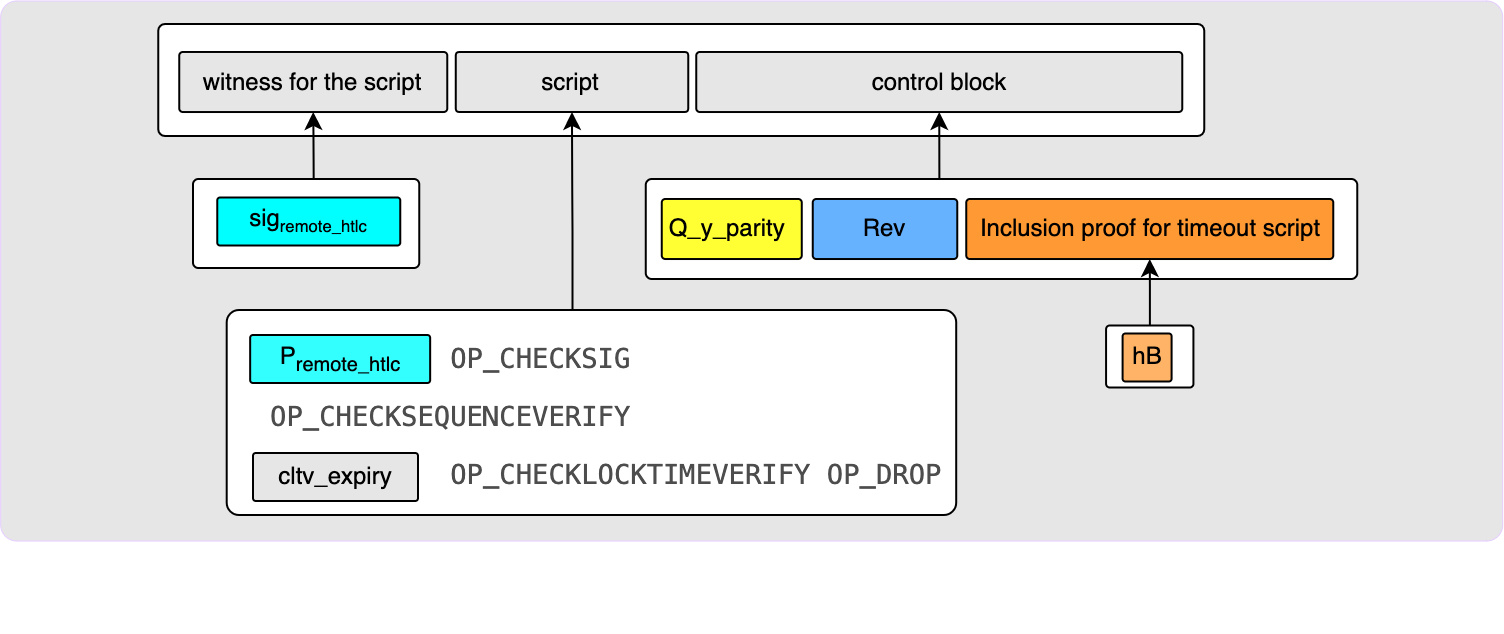
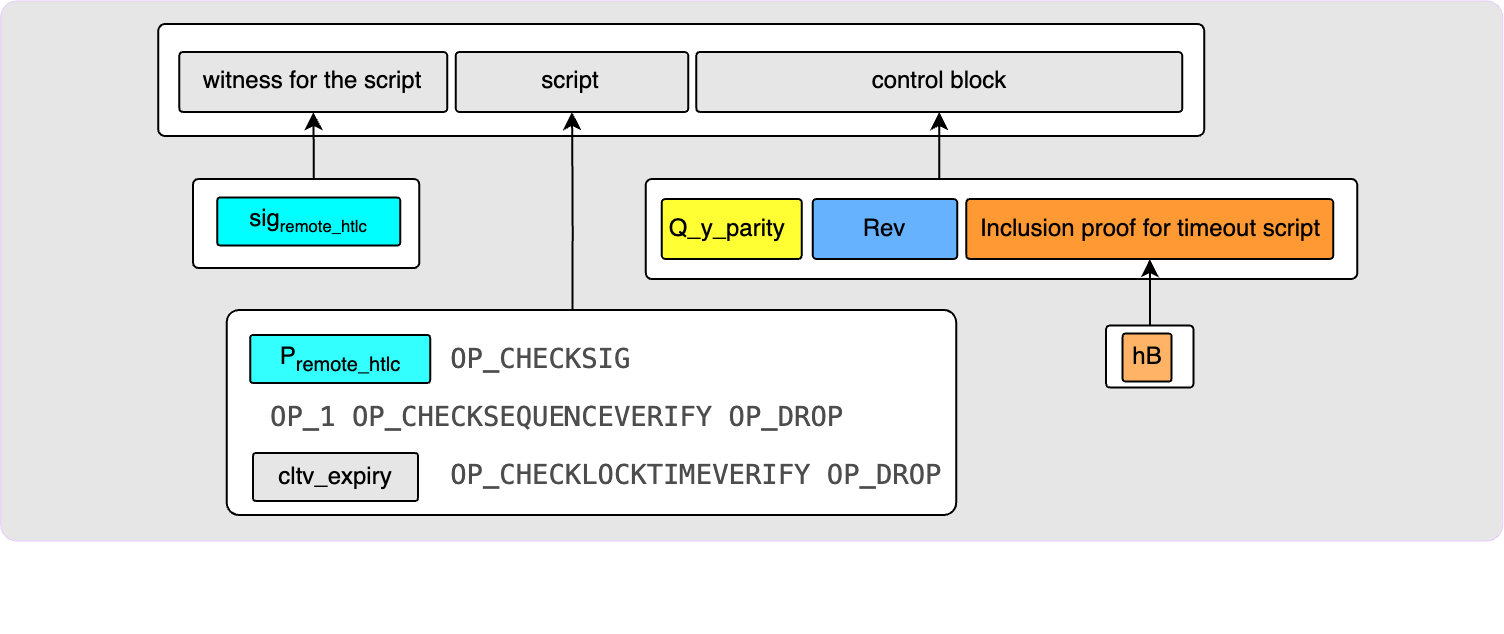
content+static: taproot chans spec update
With this commit, the Taproot channels article is updated to reflect the
latest updates in the taproot channels spec proposal.

diff --git a/content/posts/taproot-chan-txs.md b/content/posts/taproot-chan-txs.md
@@ -22,8 +22,8 @@ commitment transaction looks the way it does.
 Note that Taproot Channels are still in the design phase and so until
 the [proposal][tap-chan-bolt-pr] by the one and only [Roasbeef][roasbeef] is
 merged, this blog post will be a living document that I will update if any
-changes are made to the proposal. There are currently even a few open questions
-in the proposal which I will try to illustrate here.
+changes are made to the proposal. This is currently up-to-date as of commit 
+[e95e7a][commit].
 
 If you have read some of my previous blog posts, you might have noticed that I
 love to make use of diagrams. Well this post is diagrams on steroids. To help
@@ -33,6 +33,17 @@ represents:
 ![](/taprootChanTxs/colour-legend.png#center)
 
 Ok, ready? Let's dive in!
+
+# A quick note on NUMS points
+
+A NUMS point, or a nothing-up-my-sleeves point, is a public key that no one
+knows the private key to and that is derived from a string binding it to the
+context that it is being used in. The NUMS point used in taproot channels is
+derived from the string “Lightning Simple Taproot” using [this NUMS generation 
+tool][nums-derive]. Since no one knows the private key for the NUMS point, it 
+can be used as the internal key for a Taproot output in order to effectively 
+cancel out the possibility of a key-path spend since no one would be able to 
+create a valid signature for it.
 
 # Funding Transaction Output
 
@@ -98,40 +109,58 @@ outputs, the offered htlc output and the accepted htlc output. Let’s dive in.
 The `to_local` output is responsible for paying the local peer their channel
 balance. The output must be revocable by the remote party at all times and only
 after `to_self_delay` blocks should the local party be able to spend from the
-output. The revocation key is used as the internal key and the to-local delayed
-script is then placed in the TapTree.
+output. As you can see in the diagram below, both these paths are added as Taproot
+leaves in the Taproot tree and a public NUMS point is used as the internal key
+which effectively cancels out the key-spend path. You might be asking yourself
+why the revocation pub key is not used as the internal key and this is a good
+question since that is in fact how the output was in the original design. But
+you can see from the diagram below that the revocation script does not only
+contain the revocation public key but also strangely contains the 
+`P_local_delay` key. Notice also that the key is not followed by `OP_CHECKSIG` 
+but rather just by an `OP_DROP` which means that a signature is not required for 
+the key. All that is required is that the key is revealed in the script. This 
+reveal of `P_local_delay` in the revocation path is the only reason why the 
+revocation public key could not be used as the internal key for the output. The 
+reason for this design will be made more clear in the section describing the 
+[local anchor output](#local-anchor-output). There is a good reason, I promise 
+;)
 
 ![](/taprootChanTxs/to-local-output.png#center)
 
-### Key path spend
+### Script path spends
 
-The internal key is the revocation key which will only be spendable by the
-remote peer _iff_ the state associated with this commitment transaction has been
-revoked (see more on revocation [here][updating-state] and [here][revocation]) .
-Thus, if the local party tries to cheat the remote party by publishing an old
-state, the remote party will be able to sweep via the key path which is also the
-most cost-effective spending path.
+Since the internal key of the output is a public NUMS point, it is only possible
+to spend this output via a script path.
 
-![](/taprootChanTxs/to-local-key-path.png#center)
+#### Revocation path
 
-### Script path spend
+If this commitment transaction ends up on-chain and is for a state that has
+already been revoked, then the remote party will be able to sweep the funds via
+the revocation path. They can do so with the following witness:
+
+![](/taprootChanTxs/to-local-revocation-script.png#center)
+
+It contains a signature for the revocation public key, the revocation script 
+(which includes a reveal of the `P_local_delay` key) and finally it contains a
+control block which contains the internal key (the `NUMS` key) along with an
+inclusion proof for the revocation script.
+
+#### To-local delay path
 
 If this commitment transaction ends up on-chain as part of an honest force-close
-scenario then the remote party will not be able to spend via the revocation key.
-In this case, the transaction will be spendable by the local party via the
-script path after `to_self_delay` blocks have been confirmed. The following
-diagram shows the witness that will be required to spend this path:
+scenario then the remote party will not be able to spend via the revocation
+path. In this case, the transaction will be spendable by the local party via the
+local delay script path after `to_self_delay` blocks have been confirmed. The
+following diagram shows the witness that will be required to spend this path:
 
-![](/taprootChanTxs/to-local-script-spend.png#center)
+![](/taprootChanTxs/to-local-delay-script-path.png#center)
 
 It contains a witness for the local-delayed script which is a valid signature
 from the local party for their key, `P_local_delayed`. The script itself must
 also be revealed and finally, the control block must be specified. In this case,
-the control block only contains the parity bit of `to_local` output’s output key
-along with the internal key. Note that no inclusion proof needs to be included
-in the control block since there is only one script in the Taproot script tree
-which means that the script root can be calculated straight from the
-local-delayed script.
+the control block only contains the parity bit of `to_local` output’s output 
+key, the internal key (which is the NUMS point) and the inclusion proof for the 
+to-local delay script.
 
 ## The `to_remote` output
 
@@ -144,38 +173,8 @@ tree.
 
 ![](/taprootChanTxs/to-remote-output.png#center)
 
-You might think there is a mistake in the diagram above in the to-remote script.
-I said before that we want to enforce a CSV of one here and yet the script does
-not have `OP_1` in it. This is in-fact not a mistake but a cool Script trick! 
-If the `<remotepubkey> OP_CHECKSIG` check fails, then the script will fail 
-immediately. However, if it passes, it will push the `OP_1` to the stack that 
-we will use in the CSV check. It does, however, seem as if this neat trick might
-be replaced with a more explicit `OP_1 OP_CHECKSEQUENCEVERIFY` for legibility 
-reasons.
-
-At this point, you are likely wondering about the internal key. We only require
-one spend path for this output, but unfortunately we had to put it in the
-script tree. We still have to set an internal key, however, even though we don’t
-ever want anyone to be able to spend from it. From the diagram you can see that
-the spec currently sets this key to the same aggregate public key used in the
-funding transaction. The idea here being that if `P_agg` internal key, then we
-know that it would require cooperation among the two peers to spend via this key
-but there is really no reason for either party to want to do so. This
-effectively cancels out the key path.
-
-Some [reviewers][nums-over-pagg] of the proposal have noted that using `P_agg`
-as the internal key here makes recovery for the remote peer basically impossible
-if they find themselves in a situation where they have lost all channel data,
-all channel backups and only have their master seed left. With legacy channels,
-remote parties who have lost all their channel data are still able to scan the
-chain for `to_remote` outputs that belong to them since they know the derivation
-path that would be used for deriving these keys. This property will be lost
-if `P_agg` is used as the internal key in the Taproot channel case because the
-remote party would not be able to derive it and thus would not be able to scan
-the chain for their outputs. It has therefore been suggested that instead of
-using `P_agg` here, that a public [NUMS][nums] point be used instead. If a
-public NUMS point is used, then the remote nodes will once again retain the
-ability to scan the chain for `to_remote` outputs belonging to them.
+Similarly to the `to_local` output, we use the NUMS point for the internal key
+here so that a key path spend is not possible.
 
 ### Script path spend
 
@@ -245,27 +244,16 @@ they will tweak with the TapTweak.
 Just like the remote anchor, the parties wanting to spend via the “anyone can
 spend” path require the `P_local_delayed` public key to first be revealed. This
 is revealed when the `to_local` output is spent by the local party via the
-script path.
+script path _and_ importantly this is also revealed even if the revocation path
+is taken in the `to_local` output! This is the whole reason why the internal key
+for the `to_local` output could not just be the revocation key and why we have
+to instead force a script path spend that also reveals the `P_local_delayed`
+key. From the witness below, you can see why knowledge of the `P_local_delay`
+key is required for someone to spend this anchor output via the script path. If
+it was not revealed then there is a chance that the output would remain floating
+in the UTXO set forever since third parties would not know how to spend it.
 
 ![](/taprootChanTxs/local-anchor-script-path.png#center)
-
-There is, however, one very important difference between the `to_local`
-and `to_remote` output: the `to_remote` output can only be spent via the script
-path which means that `P_remote` is always revealed. However, the `to_local`
-output can be spent via two paths! In the ideal case, it is spent via the script
-path in which case the `P_local_delayed` is revealed and there is no issue. But
-in the bad case, the `to_local` output is spent via the revocation path in which
-case `P_local_delayed` will not be revealed. In that case only the two channel
-peers would ever have the information required to spend the local anchor.
-
-An alternative that has been suggested is that the `to_local` output be changed
-to force the reveal of `P_local_delayed` no matter how it is spent. This could
-be done by changing the key path to be a public NUMS point and then moving the
-revocation path to the script tree and adjusting the script so that
-the `P_local_delayed` key is embedded in it so that it must be revealed if the
-revocation path is spent. The downside here is that this increases the spend
-cost of both output paths of the `to_local` output. The question comes down to
-how much we want to cater for this very rare edge case.
 
 ## Offered HTLC Output
 
@@ -298,7 +286,7 @@ an inclusion proof since more than one script is present in the tree.
 
 To spend via the success path, the following witness is required.
 
-![](/taprootChanTxs/offerend-htlc-success.png#center)
+![](/taprootChanTxs/offered-htlc-success.png#center)
 
 #### Timeout Path
 
@@ -391,5 +379,6 @@ to leave a comment down below :)
 [tap-chan-bolt-pr]: https://github.com/lightning/bolts/pull/995
 [roasbeef]: https://twitter.com/roasbeef
 [carveout]: https://bitcoinops.org/en/topics/cpfp-carve-out/
-[nums-over-pagg]: https://github.com/lightningnetwork/lnd/pull/7333#discussion_r1082384984
 [nums]: https://en.wikipedia.org/wiki/Nothing-up-my-sleeve_number
+[commit]: https://github.com/lightning/bolts/pull/995/commits/e95e7acbda14e07fa53c1389f952481b822db795
+[nums-derive]: https://github.com/lightninglabs/lightning-node-connect/tree/master/mailbox/numsgen
